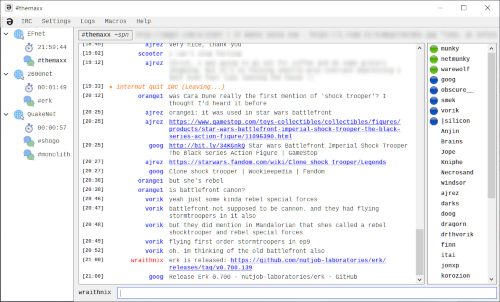
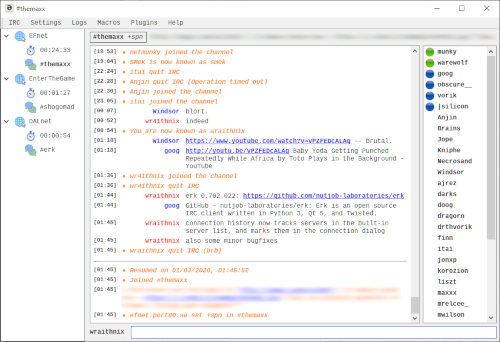
Updated README.md

Changed region(s): [[0.0, 0.0, 1.0, 1.0], [0.96, 0.0, 0.99, 0.0298], [0.9, 0.0, 0.93, 0.0298]]

diff --git a/README.md b/README.md
@@ -13,7 +13,7 @@
 
 <p align="center">
 	<a href="https://github.com/nutjob-laboratories/erk/raw/master/images/screenshot_full.png"><img src="https://github.com/nutjob-laboratories/erk/raw/master/images/screenshot.png"></a><br>
-	<b>Erk connected to EFnet, 2600net, and QuakeNet</b><br>
+	<b>Erk connected to EFnet, EnterTheGame, and DALnet</b><br>
 	<i>Click image to enlarge</i><br>
 </p>
 
